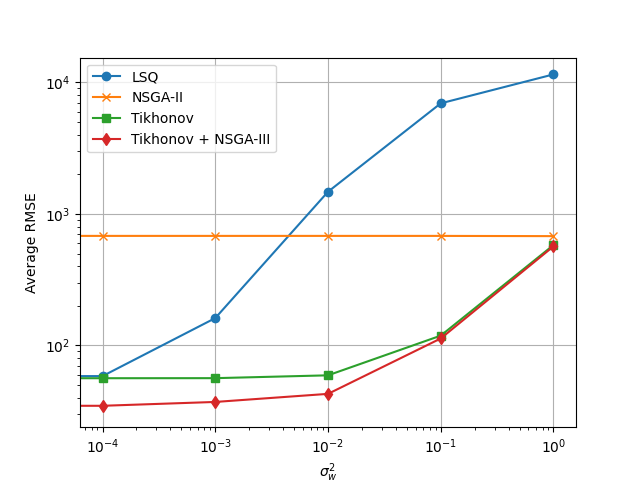
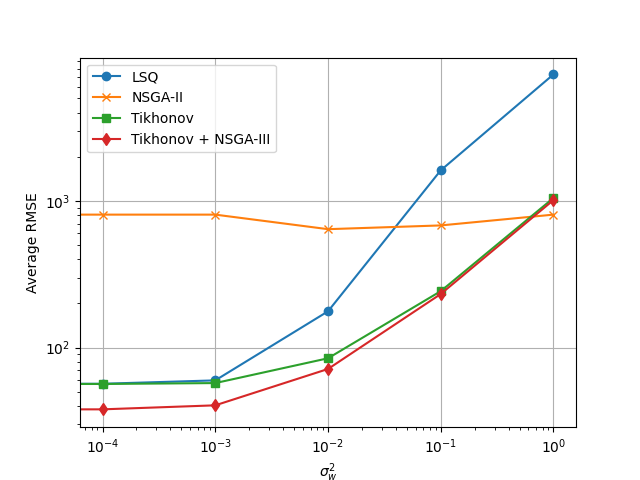
simulations

diff --git a/NSGA_III_Baseline.py b/NSGA_III_Baseline.py
@@ -1,58 +1,78 @@
 import matplotlib.pyplot as plt
 from pymoo.algorithms.moo.nsga2 import NSGA2
 from pymoo.optimize import minimize
-from pymoo.util.ref_dirs import get_reference_directions
 from pymoo.visualization.scatter import Scatter
+from pymoo.operators.crossover.sbx import SBX
+from pymoo.operators.crossover.ux import UniformCrossover
+from pymoo.operators.mutation.pm import PolynomialMutation
+from pymoo.operators.selection.tournament import TournamentSelection
+from pymoo.operators.sampling.rnd import FloatRandomSampling
+from pymoo.operators.sampling.lhs import LHS
+
 from SSM.Generate_Linear_Model import generate_linear_model
 from SSM.Generate_Measurements import generate_measurements
 from SSM.Generate_SSM_Model import generate_ssm_model
 from SSM.Set_Settings import set_settings
 from SSM.Regularized_Estimation import regularized_estimation
-import numpy as np
-from pymoo.core.evaluator import Evaluator
-from pymoo.operators.crossover.sbx import SBX
-from pymoo.operators.mutation.pm import PolynomialMutation
-from pymoo.operators.crossover.ux import UniformCrossover
 
+
+import numpy as np
 
 from MO.MOP_Definition_Pymoo import ImageReconstructionProblem
 from MO.custom_crossover import CustomCrossover
 from MO.custom_mutation import CustomMutation
 
-from pymoo.core.problem import StarmapParallelization
-
-import multiprocessing
-from multiprocessing.pool import ThreadPool  
 
 # Configuración del problema
 model, PROBE, signal = set_settings(example=1)
 model = generate_ssm_model(model, PROBE)
 MODEL = generate_linear_model(model, signal, PROBE)
 SIGNAL = generate_measurements(signal, MODEL, sigma=0)
+
+# Dimensión del vector a estimar
 n_var = 20
 tikhonov_aprox = regularized_estimation(MODEL, SIGNAL, dim=1).reshape(n_var)  # Asegurarse de que sea un vector de una dimensión
 
+problem = ImageReconstructionProblem(MODEL, PROBE, SIGNAL, n_var, tikhonov_aprox=None)
 
-problem = ImageReconstructionProblem(MODEL, PROBE, SIGNAL, n_var, tikhonov_aprox=tikhonov_aprox)
+def binary_tournament(pop, P, **kwargs):
+    # P define los torneos y los competidores
+    n_tournaments, n_competitors = P.shape
 
-# Crear las direcciones de referencia para la optimización
-ref_dirs = get_reference_directions("das-dennis", problem.n_obj, n_partitions=15)
+    if n_competitors != 2:
+        raise Exception("Only pressure=2 allowed for binary tournament!")
 
-# Crear el objeto del algoritmo
-algorithm = NSGA2(pop_size=200, 
-                  #ref_dirs=ref_dirs,
-                  crossover=CustomCrossover(prob=0.9),
-                  mutation=CustomMutation(prob=0.9, max_generations=1000),
-                  eliminate_duplicates=True)
+    # Resultado que esta función debe devolver
+    S = np.full(n_tournaments, -1, dtype=int)
 
+    # Realizar todos los torneos
+    for i in range(n_tournaments):
+        a, b = P[i]
 
+        # Si el primer individuo es mejor, elígelo
+        if pop[a].F[0] < pop[b].F[0]:  
+            S[i] = a
+        else:
+            S[i] = b
+
+    return S
+
+# Configurar el algoritmo NSGA-II con la selección personalizada
+algorithm = NSGA2(
+    pop_size=1000,
+    sampling=LHS(),
+    crossover=CustomCrossover(prob=0.9),
+    mutation=CustomMutation(prob=0.9, max_generations=1000),
+    selection=TournamentSelection(func_comp=binary_tournament),
+    eliminate_duplicates=True
+)
 
 # Ejecutar la optimización
 res = minimize(problem,
                algorithm,
                seed=1,
-               termination=('n_gen',1000),
-               verbose=True) 
+               termination=('n_gen', 1000),
+               verbose=True)
 
 # Acceder a las soluciones y valores de las funciones objetivo
 solutions = res.X
@@ -65,28 +85,33 @@ min_index = np.argmin(objective_values[:, 0])
 best_solution = solutions[min_index]
 best_objective_values = objective_values[min_index]
 
+# Verificar si la mejor solución es similar a la aproximación de Tikhonov
 if np.allclose(best_solution, tikhonov_aprox, atol=1e-10):
     print('The best solution is the Tikhonov approximation')
 
+# Obtener las estimaciones de mu
 mu_est_nsga2 = problem.mo_estimation(best_solution.reshape(20, 1))
 mu_est_tikh = problem.mo_estimation(tikhonov_aprox.reshape(20, 1))
 
-print(f'nsga: {mu_est_nsga2}')
-print(f'tikh: {mu_est_tikh}')
+print(f'NSGA-II Estimation (mu): {mu_est_nsga2}')
+print(f'Tikhonov Estimation (mu): {mu_est_tikh}')
 
-plt.figure(figsize=(10, 6))  # Ajustar el tamaño de la figura
+# Graficar y guardar la comparación de estimaciones de mu
+plt.figure(figsize=(10, 6))
 plt.plot(mu_est_nsga2, label='NSGA-II Estimation', linestyle='-', color='b')
 plt.plot(PROBE.mu, label='True mu', linestyle='--', color='g')
 plt.plot(mu_est_tikh, label='Tikhonov Estimation', linestyle='-.', color='r')
 
 plt.xlabel('Depth', fontsize=14)
 plt.ylabel('mu', fontsize=14)
-plt.title('Comparison of mu Estimations', fontsize=16)
+plt.title('Sin informar a NSGA-II (pymoo)', fontsize=16)
 plt.legend(fontsize=12)
 plt.grid(True)
 
+# Guardar la gráfica
 plt.savefig('img/nsga2_pro/mu_est_nsga2.png')
 plt.close()
 
-# Visualizar el frente de Pareto
-Scatter().add(res.F).show().save('pareto_front.png')
+# Visualizar y guardar el frente de Pareto
+scatter_plot = Scatter().add(res.F)
+scatter_plot.save('pareto_front.png')

diff --git a/NSGA_me.py b/NSGA_me.py
@@ -34,9 +34,9 @@ n_var = 20
 tikhonov_aprox = regularized_estimation(MODEL, SIGNAL, dim=1).reshape(n_var)  # Asegurarse de que sea un vector de una dimensión
 
 
-problem = ImageReconstructionProblem(MODEL, PROBE, SIGNAL, n_var, tikhonov_aprox=tikhonov_aprox)
+problem = ImageReconstructionProblem(MODEL, PROBE, SIGNAL, n_var, tikhonov_aprox=None)
 
-nsga2 = NSGA2(generations=450,population_size=100, mutation_rate=0.8, problem=problem)
+nsga2 = NSGA2(generations=450,population_size=100, mutation_rate=0.1, problem=problem)
 
 x = [individual.values[0] for individual in nsga2.P_t]
 y = [individual.values[1] for individual in nsga2.P_t]
@@ -61,7 +61,7 @@ plt.plot(mu_est_tikh, label='Tikhonov Estimation', linestyle='-.', color='r')
 
 plt.xlabel('Depth', fontsize=14)
 plt.ylabel('mu', fontsize=14)
-plt.title('Comparison of mu Estimations', fontsize=16)
+plt.title('Sin Informar a NSGA-II (me)', fontsize=16)
 plt.legend(fontsize=12)
 plt.grid(True)
 
@@ -70,6 +70,7 @@ plt.close()
 
 plt.figure()
 plt.scatter(x, y, c='red')
+plt.title('Pareto Front (me)')
 plt.xlabel('f1')
 plt.ylabel('f2')
 plt.savefig('pareto_front_me.png')

diff --git a/MO/custom_mutation.py b/MO/custom_mutation.py
@@ -10,11 +10,11 @@ class CustomMutation(Mutation):
         self.generation = 0
 
     def _do(self, problem, X, **kwargs):
-        self.generation += 0.3
+        self.generation += 0.1
 
         for i in range(X.shape[0]):  # Iterar sobre cada individuo
             if np.random.rand() < self.prob:
-                mutation_magnitude = 10000 * (1 - self.generation / self.max_generations)
+                mutation_magnitude = 20000 * (1 - self.generation / self.max_generations)
                 for j in range(X.shape[1]):  # Iterar sobre cada gen
                     direction = np.random.uniform(0, 1)
                     if direction < 0.5:

diff --git a/MO/MOP_Definition_Pymoo.py b/MO/MOP_Definition_Pymoo.py
@@ -11,8 +11,8 @@ class ImageReconstructionProblem(Problem):
         self.n_obj = 2  # Cambiar a 3 si añades un tercer objetivo
         if tikhonov_aprox is not None:
             tikhonov_aprox = tikhonov_aprox.flatten()
-            xl = np.maximum(0, tikhonov_aprox - 1000)  # Asegurar positividad
-            xu = tikhonov_aprox + 100
+            xl = tikhonov_aprox - 1000  # Asegurar positividad
+            xu = tikhonov_aprox + 10
         else:
             xl = 750 # Establecer límite inferior en 0 para positividad
             xu = 25000

diff --git a/MO/MOP_Definition.py b/MO/MOP_Definition.py
@@ -14,7 +14,7 @@ class ImageReconstructionProblem(Problem):
         self.n_obj = 2
         if tikhonov_aprox is not None:
             tikhonov_aprox = tikhonov_aprox.flatten()
-            xl = np.maximum(0, tikhonov_aprox - 2000)  # Asegurar positividad
+            xl = tikhonov_aprox - 2000  # Asegurar positividad
             xu = tikhonov_aprox + 100
         else:
             xl = 750 # Establecer límite inferior en 0 para positividad

diff --git a/simulations_me.py b/simulations_me.py
@@ -25,7 +25,7 @@ MODEL = generate_linear_model(model, signal, PROBE)
 
 # Valores de sigma (σ_w²) de 10^-10 a 10^-1
 sigmas = [0.0, 1e-4, 1e-3, 1e-2, 1e-1, 1.0]
-num_simulations = 1
+num_simulations = 10
 
 # Para almacenar los resultados
 avg_rmse_lsq = []
